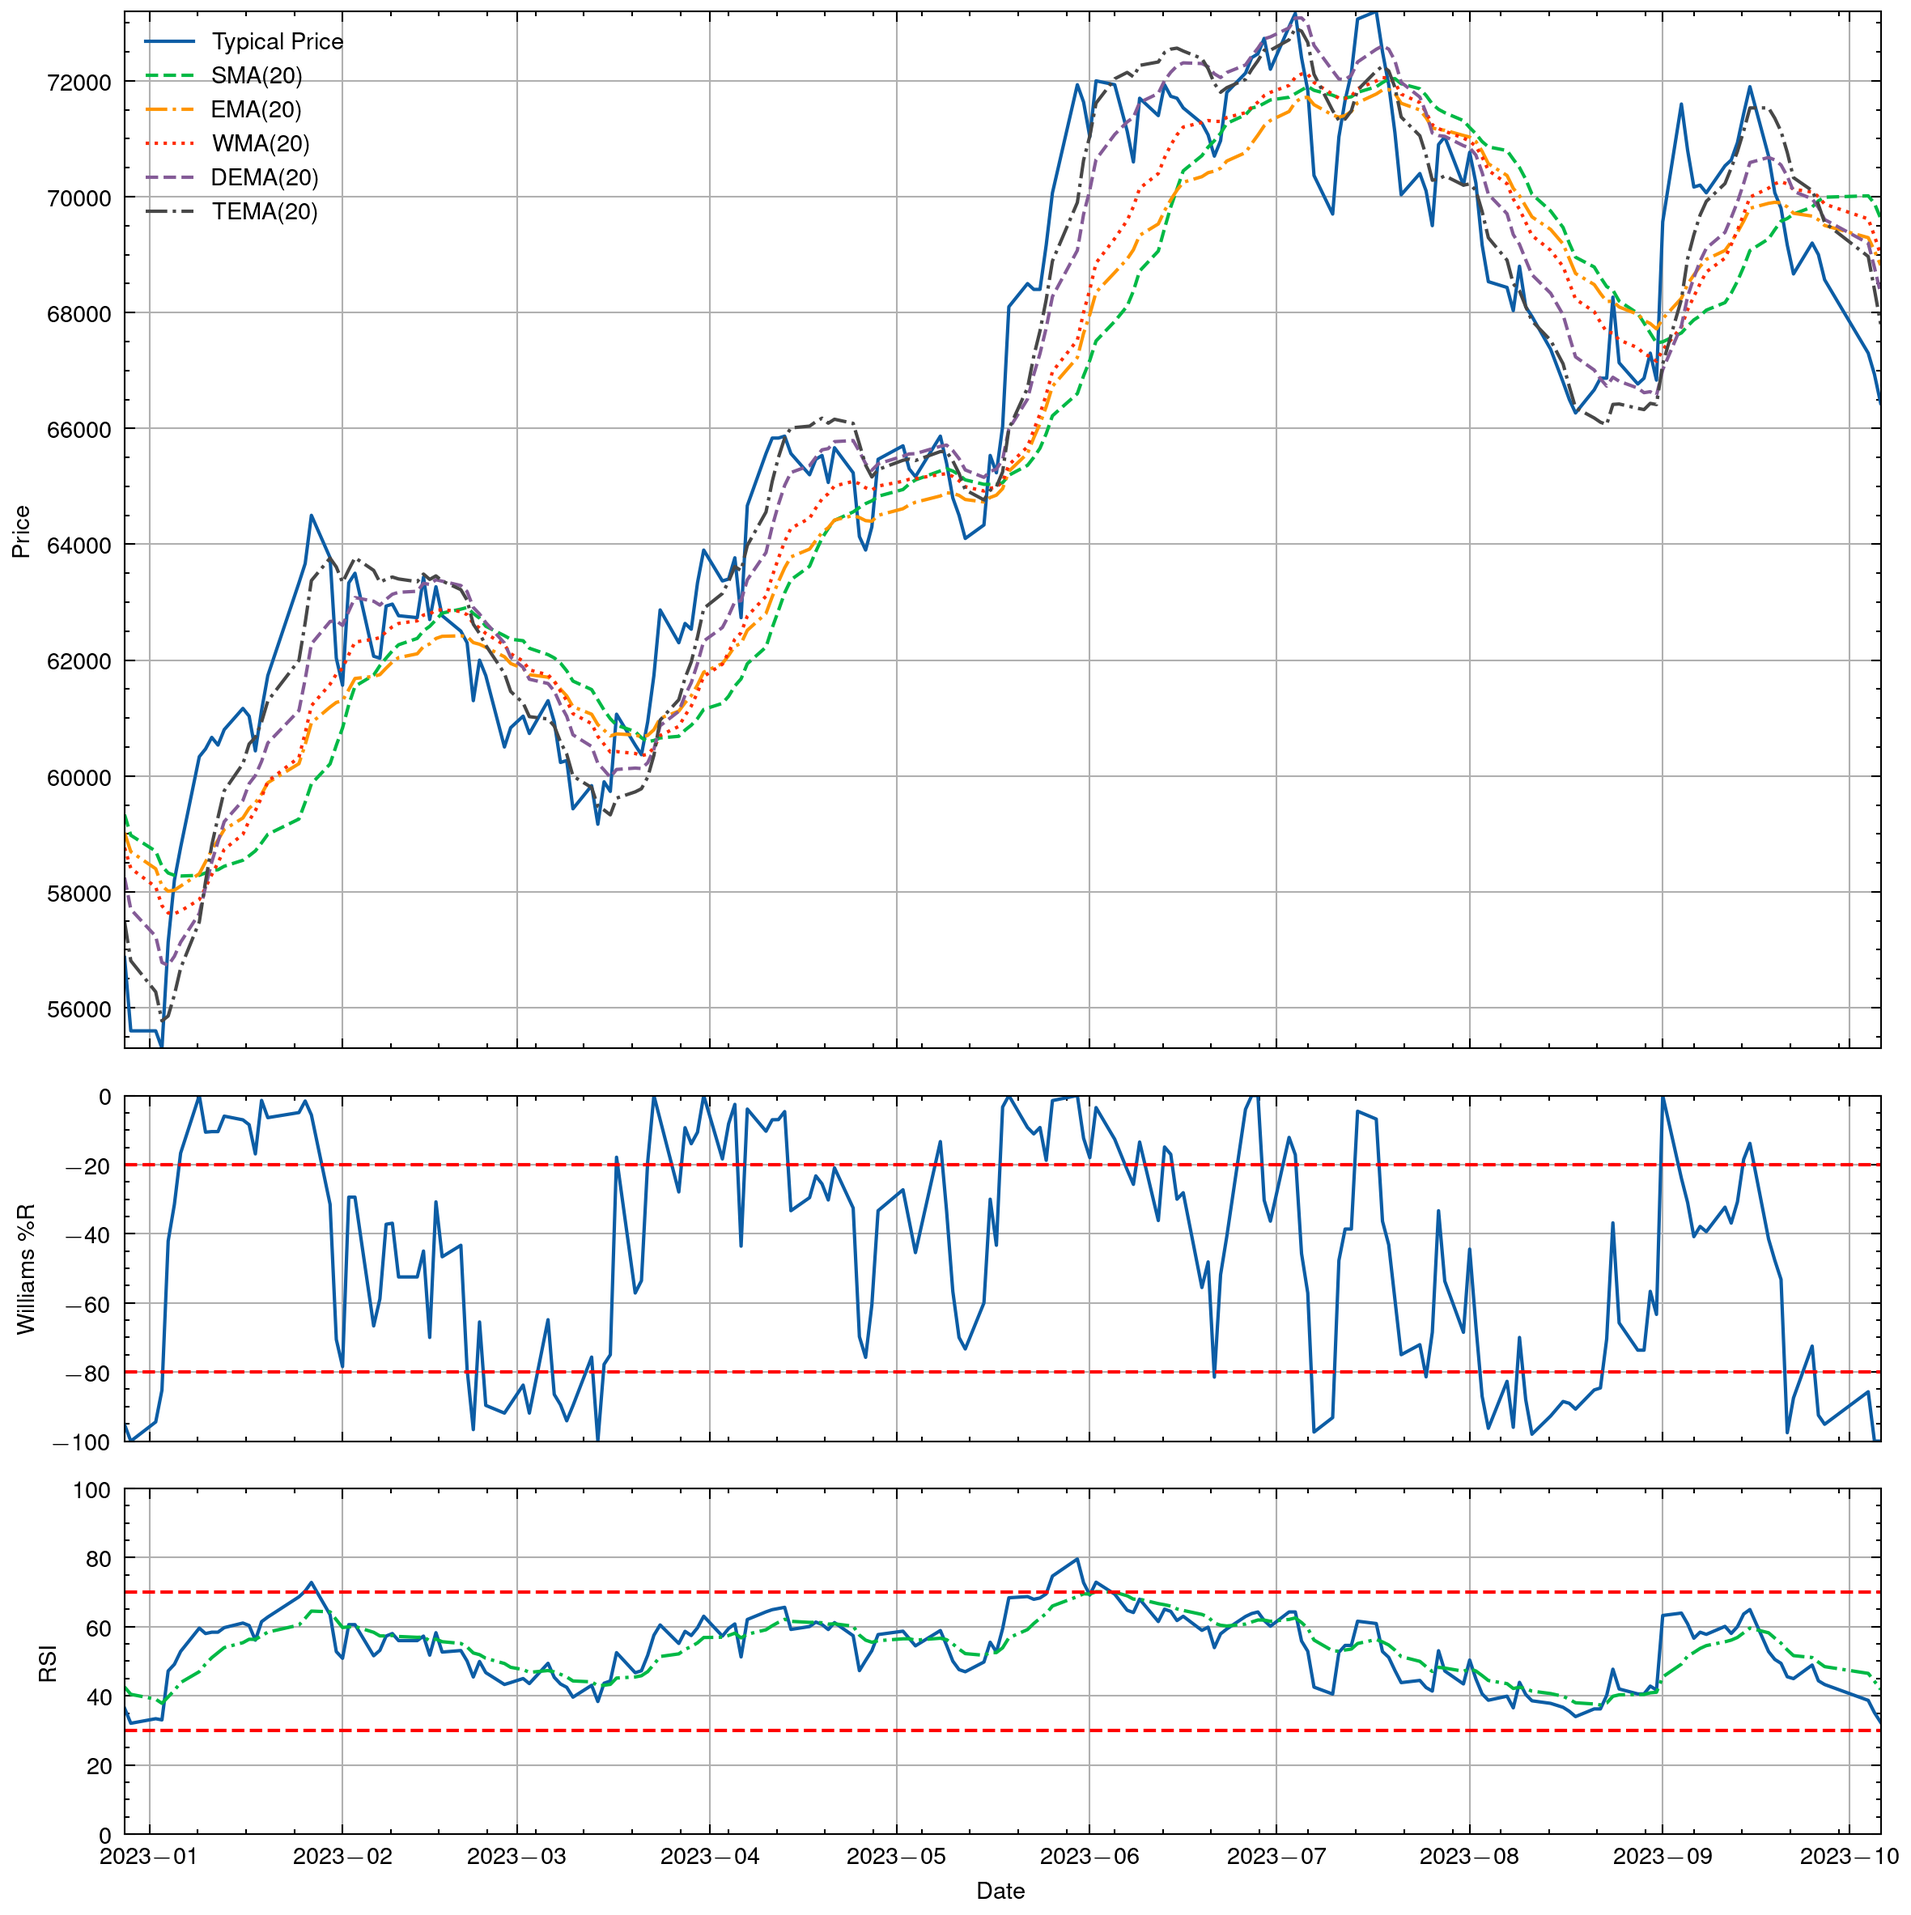
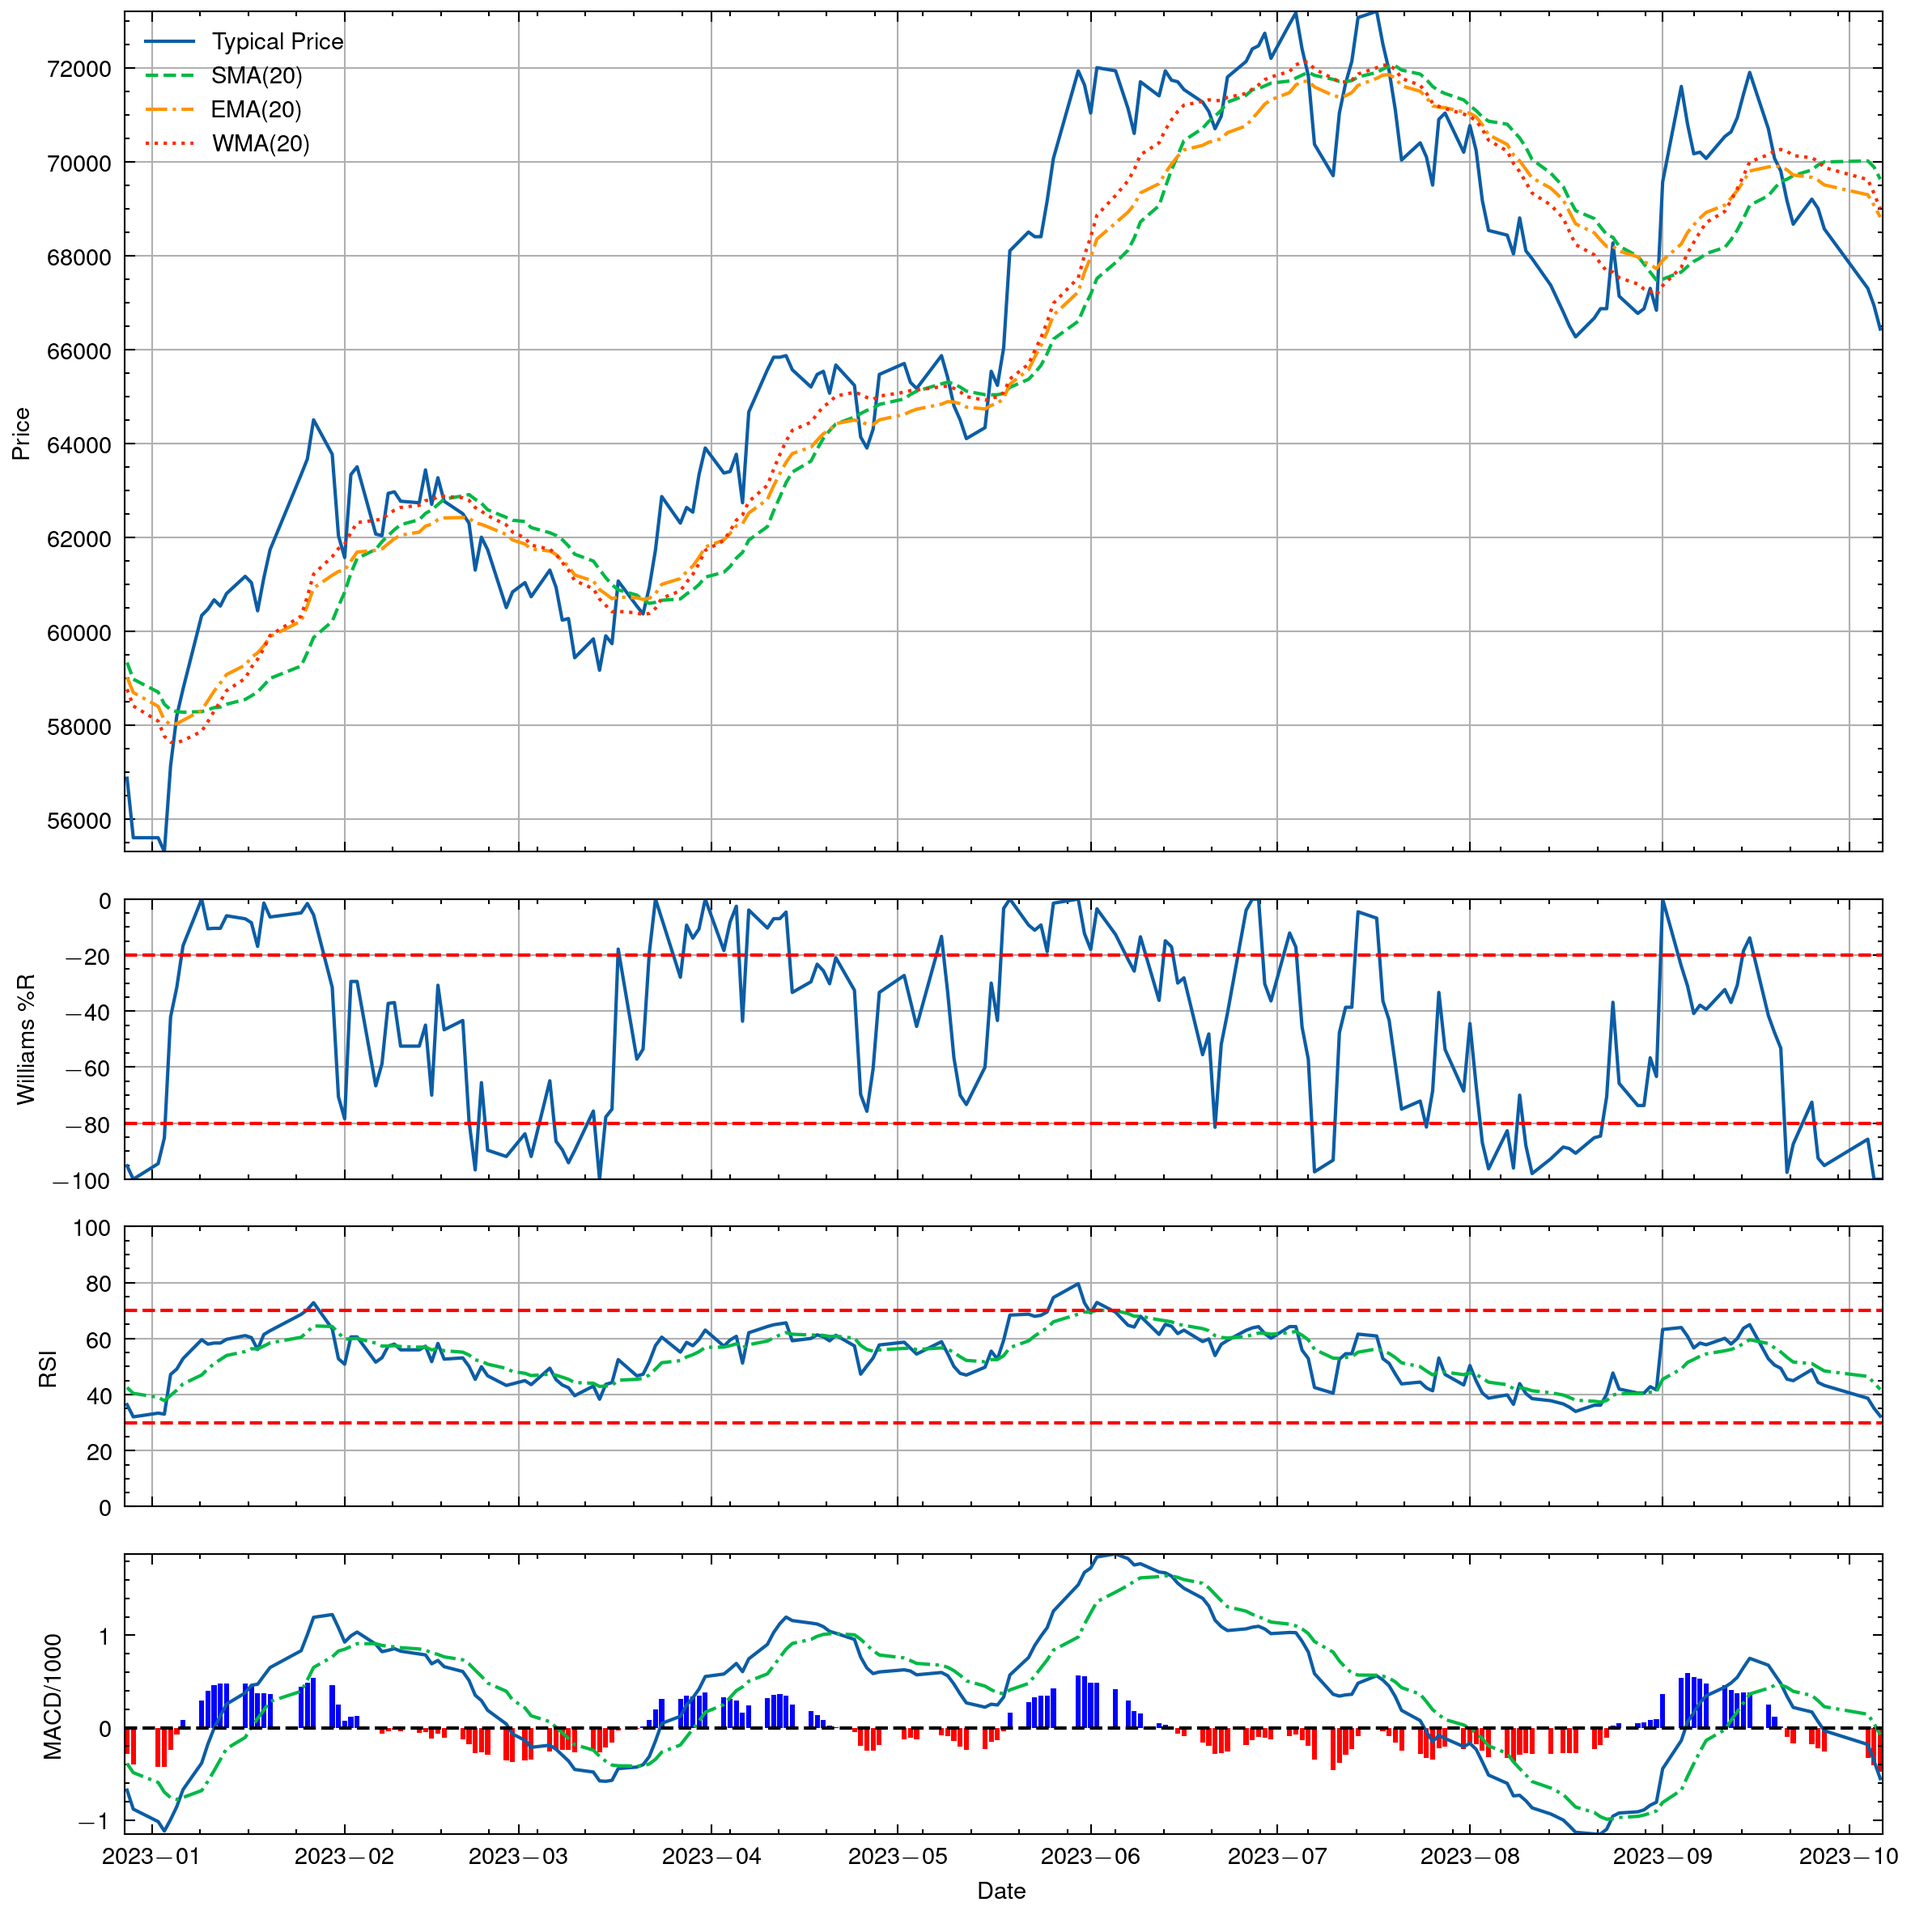
Implement MACD

diff --git a/src/main.rs b/src/main.rs
@@ -1,6 +1,6 @@
 use peroxide::fuga::*;
 use fmp::api::HistoricalPriceFull;
-use fmp::ta::{sma, ema, wma, dema, tema, williams_r, rsi};
+use fmp::ta::{sma, ema, wma, dema, tema, williams_r, rsi, macd};
 
 fn main() -> Result<(), Box<dyn std::error::Error>> {
     let api_key_dir = "./api_key.txt";
@@ -22,11 +22,13 @@ fn main() -> Result<(), Box<dyn std::error::Error>> {
     let sma_ = sma(&tp, 20);
     let ema_ = ema(&tp, 20);
     let wma_ = wma(&tp, 20);
-    let dema_ = dema(&tp, 20);
-    let tema_ = tema(&tp, 20);
+    //let dema_ = dema(&tp, 20);
+    //let tema_ = tema(&tp, 20);
     let williams_ = williams_r(&high, &low, &close, 14);
     let rsi_ = rsi(&close, 14);
     let rsi_signal = ema(&rsi_, 9);
+    let macd_ = macd(&close, 12, 26);
+    let macd_signal = ema(&macd_, 9);
 
     // Result
     let date = date[240..].to_vec();
@@ -34,11 +36,13 @@ fn main() -> Result<(), Box<dyn std::error::Error>> {
     let sma_ = sma_[240..].to_vec();
     let ema_ = ema_[240..].to_vec();
     let wma_ = wma_[240..].to_vec();
-    let dema_ = dema_[240..].to_vec();
-    let tema_ = tema_[240..].to_vec();
+    //let dema_ = dema_[240..].to_vec();
+    //let tema_ = tema_[240..].to_vec();
     let williams_ = williams_[240..].to_vec();
     let rsi_ = rsi_[240..].to_vec();
     let rsi_signal = rsi_signal[240..].to_vec();
+    let macd_ = macd_[240..].to_vec();
+    let macd_signal = macd_signal[240..].to_vec();
 
     let mut dg = DataFrame::new(vec![]);
     dg.push("date", Series::new(date));
@@ -46,11 +50,11 @@ fn main() -> Result<(), Box<dyn std::error::Error>> {
     dg.push("sma", Series::new(sma_));
     dg.push("ema", Series::new(ema_));
     dg.push("wma", Series::new(wma_));
-    dg.push("dema", Series::new(dema_));
-    dg.push("tema", Series::new(tema_));
     dg.push("williams", Series::new(williams_));
     dg.push("rsi", Series::new(rsi_));
     dg.push("rsi_signal", Series::new(rsi_signal));
+    dg.push("macd", Series::new(macd_));
+    dg.push("macd_signal", Series::new(macd_signal));
 
     //println!("{:?}", dg);
 

diff --git a/script/ta_plot.py b/script/ta_plot.py
@@ -14,23 +14,21 @@ tp = df['tp']
 sma = df['sma']
 ema = df['ema']
 wma = df['wma']
-dema = df['dema']
-tema = df['tema']
 williams = df['williams']
 rsi = df['rsi']
 rsi_signal = df['rsi_signal']
+macd = df['macd'] / 1000
+macd_signal = df['macd_signal'] / 1000
 #rsi2 = dg['rsi']
 
 # Plot
 with plt.style.context(["science", "nature"]):
-    fig, axs = plt.subplots(3, 1, figsize=(8, 8), sharex=True, gridspec_kw={'height_ratios': [3, 1, 1]})
+    fig, axs = plt.subplots(4, 1, figsize=(8, 8), sharex=True, gridspec_kw={'height_ratios': [3, 1, 1, 1]})
     axs[0].autoscale(tight=True)
     axs[0].plot(x, tp, label='Typical Price')
     axs[0].plot(x, sma, '--', label='SMA(20)')
     axs[0].plot(x, ema, '-.', label='EMA(20)')
     axs[0].plot(x, wma, ':', label='WMA(20)')
-    axs[0].plot(x, dema, '--', label='DEMA(20)')
-    axs[0].plot(x, tema, '-.', label='TEMA(20)')
     # Tick angle
     plt.setp(axs[0].get_xticklabels(), rotation=30, horizontalalignment='right')
     axs[0].legend()
@@ -51,10 +49,23 @@ with plt.style.context(["science", "nature"]):
     axs[2].plot(x, rsi_signal, '-.')
     axs[2].axhline(y=30, color='r', linestyle='--')
     axs[2].axhline(y=70, color='r', linestyle='--')
-    axs[2].set_xlabel("Date")
     axs[2].set_ylabel("RSI")
     axs[2].set_ylim([0, 100])
     axs[2].grid(True)
+
+    axs[3].autoscale(tight=True)
+    axs[3].plot(x, macd)
+    axs[3].plot(x, macd_signal, '-.')
+    axs[3].axhline(y=0, color='k', linestyle='--')
+    # Histogram for MACD
+    macd_up = np.array(macd - macd_signal)
+    macd_up[macd_up < 0] = np.nan
+    macd_down = np.array(macd - macd_signal)
+    macd_down[macd_down > 0] = np.nan
+    axs[3].bar(x, macd_up, color='b', width=0.8)
+    axs[3].bar(x, macd_down, color='r', width=0.8)
+    axs[3].set_xlabel("Date")
+    axs[3].set_ylabel("MACD/1000")
 
     fig.tight_layout()
     fig.savefig('figs/005930.KS.png', dpi=300, bbox_inches='tight')

diff --git a/src/ta.rs b/src/ta.rs
@@ -106,3 +106,10 @@ pub fn rsi(v: &[f64], period: usize) -> Vec<f64> {
     let ad = smma(&d, period);
     zip_with(|x, y| 100f64 * x / (x + y + 1e-3), &au, &ad)
 }
+
+/// Moving Average Convergence Divergence
+pub fn macd(v: &[f64], period1: usize, period2: usize) -> Vec<f64> {
+    let ema1 = ema(v, period1);
+    let ema2 = ema(v, period2);
+    zip_with(|x, y| x - y, &ema1, &ema2)
+}
